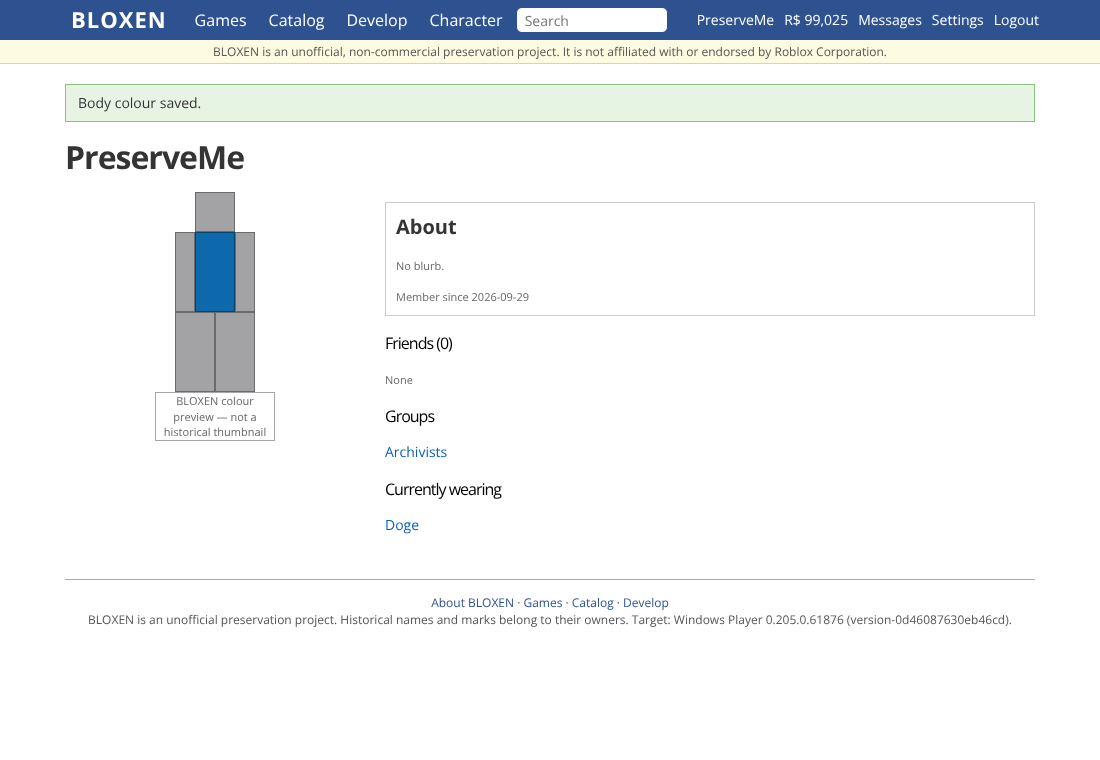
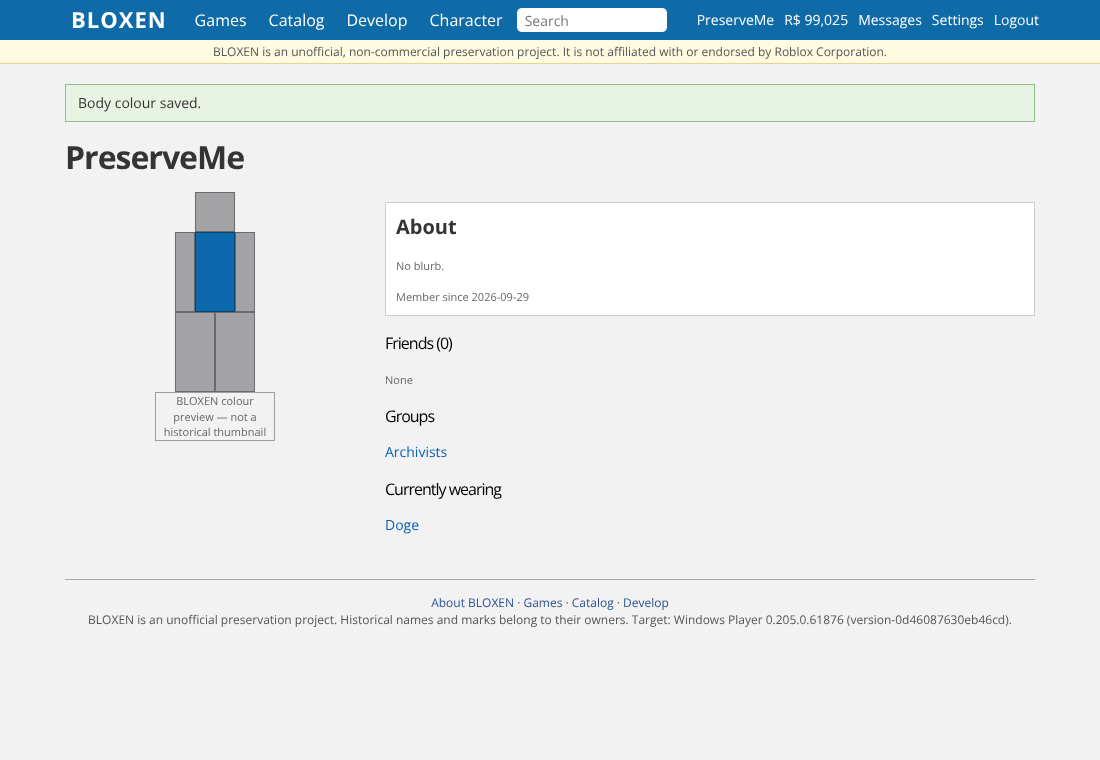
Website: logged-in Home + site chrome restyled from 2015-16 reference thumbnail (grey page, sampled blue header, Friends card, Recently Played row)

Changed region(s): [[0.0, 0.0, 1.0, 0.0605]]

diff --git a/static/css/bloxen.css b/static/css/bloxen.css
@@ -3,19 +3,19 @@
    button colours #007001 / #0852b7 / #565656, link #095fb5, text #343434, h1 32px / h2 30px) were read from the 2014-era Roblox Navigation2014.css /
    StyleGuide.css as mirrored in RobloxLabs/web (MIT). No Roblox image or sprite is bundled. The original July-2015 CSS was NOT recoverable (Wayback
    returns only rendered text through our tooling), so spacing and page composition are INFERRED. See research/WEBSITE.md. */
-html { height: 100%; background: #fff; }
-body { margin: 0; font-family: 'Source Sans Pro', Arial, Helvetica, sans-serif; color: #343434; font-size: 14px; line-height: 1.428; background: #fff; }
+html { height: 100%; background: #f2f2f2; }
+body { margin: 0; font-family: 'Source Sans Pro', Arial, Helvetica, sans-serif; color: #343434; font-size: 14px; line-height: 1.428; background: #f2f2f2; }
 a, a:visited { color: #095fb5; text-decoration: none; } a:hover { text-decoration: underline; }
 h1 { font-size: 32px; font-weight: bold; margin: 12px 0; letter-spacing: -1px; } h2 { font-size: 30px; letter-spacing: -1px; margin: 16px 0 10px; } h3 { font-size: 20px; margin: 12px 0 6px; } h2.light { font-size: 16px; font-weight: normal; color: #000; }
-.header-2014 { position: fixed; top: 0; left: 0; right: 0; height: 40px; background: #2D528F; color: #fff; z-index: 100; min-width: 960px; }
+.header-2014 { position: fixed; top: 0; left: 0; right: 0; height: 40px; background: #0e6ba7; color: #fff; z-index: 100; min-width: 960px; }
 .header-2014 a, .header-2014 a:visited { color: #fff; } .header-2014 .inner { width: 970px; margin: 0 auto; height: 40px; display: flex; align-items: center; }
 .header-2014 .logo { font-weight: bold; font-size: 22px; letter-spacing: 1px; margin-right: 14px; padding: 0 6px; }
-.header-2014 .links a { white-space: nowrap; font-size: 16px; margin-right: 6px; padding: 3px 10px 3px; border-radius: 4px; display: inline-block; } .header-2014 .links a:hover { background: #27487E; text-decoration: none; }
+.header-2014 .links a { white-space: nowrap; font-size: 16px; margin-right: 6px; padding: 3px 10px 3px; border-radius: 4px; display: inline-block; } .header-2014 .links a:hover { background: #0a5a8e; text-decoration: none; }
 .header-2014 form.search { margin: 0 10px 0 auto; } .header-2014 .search input { width: 220px; height: 24px; border: 0; border-radius: 5px; padding: 0 8px; font-size: 14px; box-sizing: border-box; }
 .header-2014 .acct { white-space: nowrap; font-size: 13px; flex-shrink: 0; font-size: 14px; } .header-2014 .acct span, .header-2014 .acct a, .header-2014 .acct button { margin-left: 10px; }
 .linkbtn { background: none; border: 0; color: #fff; font: inherit; cursor: pointer; padding: 0; } .linkbtn:hover { text-decoration: underline; }
 .notice { margin: 40px 0 0; background: #fffbe0; border-bottom: 1px solid #e0d98a; color: #555; font-size: 12px; text-align: center; padding: 3px 10px; }
-#Container { width: 970px; margin: 0 auto; background: #fff; padding: 10px 0 30px; min-height: 420px; }
+#Container { width: 970px; margin: 0 auto; background: transparent; padding: 10px 0 30px; min-height: 420px; }
 .flash { padding: 8px 12px; margin: 10px 0; border: 1px solid; } .flash.ok { background: #e7f4e4; border-color: #8cc084; } .flash.err { background: #fbe4e4; border-color: #d99; }
 .btn-large, .btn-medium, .btn-small { display: inline-block; text-align: center; font-weight: bold; border: 1px solid; cursor: pointer; text-decoration: none !important; color: #fff !important; font-family: inherit; }
 .btn-large { padding: 9px 20px 0; height: 39px; min-width: 70px; font-size: 23px; line-height: 27px; box-sizing: border-box; } .btn-medium { padding: 1px 13px 3px; height: 28px; min-width: 62px; font-size: 20px; line-height: 24px; box-sizing: border-box; } .btn-small { padding: 1px 7px; height: 20px; min-width: 40px; font-size: 14px; line-height: 18px; box-sizing: border-box; }
@@ -44,3 +44,12 @@ footer.site { width: 970px; margin: 0 auto; padding: 14px 0 40px; font-size: 12p
 .swrow form { display: inline; }
 /* fit 4 nav links + search + account area in 970px (found via screenshot: "Character" wrapped) */
 .header-2014 .links { display: flex; flex-shrink: 0; } .header-2014 .search input { width: 150px; } .header-2014 .links a { padding: 3px 8px; }
+
+/* 2015 logged-in chrome: header blue SAMPLED (#0e6ba7) from a blurry 185px reference thumbnail (uncertain +-10%); page grey #f2f2f2 sampled the same way. */
+.hello { display: flex; align-items: flex-end; margin: 14px 0 6px; } .hello-fig { width: 160px; } .hello-h { font-size: 44px; font-weight: 300; color: #555; letter-spacing: -1px; margin: 0 0 10px 30px; }
+.card { background: #fff; border: 1px solid #e3e3e3; padding: 10px 14px 12px; margin: 10px 0 18px; } .card-h, .sec-h { display: flex; justify-content: space-between; align-items: center; margin-bottom: 8px; color: #666; font-size: 18px; font-weight: 300; }
+.sec-h { font-size: 15px; letter-spacing: .3px; margin-top: 18px; } .btn-see { background: #3fb0ee; color: #fff !important; font-size: 12px; padding: 4px 16px; border-radius: 2px; text-decoration: none !important; }
+.frow { display: flex; gap: 10px; flex-wrap: wrap; } .ftile { width: 84px; text-align: center; color: #555 !important; font-size: 12px; } .fthumb { width: 84px; height: 84px; background: #f2f2f2; border: 1px solid #ddd; font-size: 9px; color: #888; display: flex; align-items: center; justify-content: center; }
+.fnm { overflow: hidden; text-overflow: ellipsis; white-space: nowrap; margin-top: 2px; }
+.grow { display: flex; gap: 10px; flex-wrap: wrap; } .gtile { width: 150px; background: #fff; border: 1px solid #e3e3e3; padding: 0 0 6px; } .gtile .thumb { width: 150px; height: 150px; box-sizing: border-box; background: #f2f2f2; display: flex; align-items: center; justify-content: center; text-align: center; font-size: 11px; color: #888; }
+.gtile .nm { padding: 4px 6px 0; font-weight: bold; white-space: nowrap; overflow: hidden; text-overflow: ellipsis; } .gtile .tip { padding: 0 6px; }

diff --git a/src/web/views.js b/src/web/views.js
@@ -62,13 +62,17 @@ function signupForm(c, tok) {
 <div class="lsu-row"><span class="lsu-l">Gender:</span><label><input type="radio" name="gender" value="m"> Boy</label> <label><input type="radio" name="gender" value="f"> Girl</label></div>
 <button class="lgreen lbig" type="submit">Sign Up</button></form><p class="lnotice">BLOXEN accounts are local. Use a NEW password &mdash; never your Roblox password.</p>`;
 }
+// Logged-in Home. REFERENCE: 185px-wide thumbnail "homepage from early 2015 to early 2016" (Roblox fandom wiki, quarantine copy) - grey page, blue header,
+// big light-weight "Hello, <name>!" with full-body avatar at left, white Friends card with avatar tiles + light-blue "See All", RECENTLY PLAYED row of square game tiles.
+// Too small to measure: proportions are estimates. Avatar/friend/game thumbnails are MISSING; the avatar is the labelled BLOXEN colour preview.
 function homeIn(c, d) {
-  const gameTile = g => `<div class="tile game"><a href="/games/${esc(g.id)}">${thumb('', g.title)}<div class="nm">${esc(g.title)}</div></a><div class="tip">by ${esc(g.creator || 'UNKNOWN')}</div></div>`;
-  return layout(c, 'Home', `<h1>Hello, ${esc(c.user.username)}!</h1><div class="two"><div class="side2">${figure(d.avatar.colors)}<p class="tc"><a href="/my/character">Customize Character</a></p></div><div class="main">
-<h2 class="light">Recently Played</h2>${d.recent.length ? `<div class="grid">${d.recent.map(gameTile).join('')}</div>` : '<p class="tip">You have not played anything yet.</p>'}
-<h2 class="light">Favorites</h2>${d.favs.length ? `<div class="grid">${d.favs.map(gameTile).join('')}</div>` : '<p class="tip">No favorite games yet.</p>'}
-<h2 class="light">Friends (${d.friends.length})</h2>${d.friends.map(f => `<a href="/users/${f.id}/profile">${esc(f.username)}</a>`).join(', ') || '<span class="tip">No friends yet. <a href="/my/friends">Find some</a>.</span>'}
-<p>${d.unread ? `<a href="/my/messages"><b>${d.unread} unread message${d.unread > 1 ? 's' : ''}</b></a>` : ''}</p></div></div>`);
+  const gameTile = g => `<div class="gtile"><a href="/games/${esc(g.id)}">${thumb('', g.title)}<div class="nm" title="${esc(g.title)}">${esc(g.title)}</div></a><div class="tip">by ${esc(g.creator || 'UNKNOWN')}</div></div>`;
+  const friendTile = f => `<a class="ftile" href="/users/${f.id}/profile"><div class="fthumb">(thumbnail MISSING)</div><div class="fnm">${esc(f.username)}</div></a>`;
+  return layout(c, 'Home', `<div class="hello"><div class="hello-fig">${figure(d.avatar.colors)}</div><h1 class="hello-h">Hello, ${esc(c.user.username)}!</h1></div>
+<div class="card"><div class="card-h"><span>Friends (${d.friends.length})</span><a class="btn-see" href="/my/friends">See All</a></div><div class="frow">${d.friends.map(friendTile).join('') || '<span class="tip">No friends yet. <a href="/my/friends">Find some</a>.</span>'}</div></div>
+<div class="sec-h"><span>RECENTLY PLAYED</span><a class="btn-see" href="/games">See All</a></div>${d.recent.length ? `<div class="grow">${d.recent.map(gameTile).join('')}</div>` : '<p class="tip">You have not played anything yet.</p>'}
+<div class="sec-h"><span>MY FAVORITES</span><a class="btn-see" href="/games">See All</a></div>${d.favs.length ? `<div class="grow">${d.favs.map(gameTile).join('')}</div>` : '<p class="tip">No favorite games yet.</p>'}
+<p>${d.unread ? `<a href="/my/messages"><b>${d.unread} unread message${d.unread > 1 ? 's' : ''}</b></a>` : ''}</p><p class="tip"><a href="/my/character">Customize Character</a></p>`);
 }
 const SORTS = ['Default', 'Popular', 'Top Earning', 'Top Rated', 'Recommended', 'Top Favorite', 'Top Paid', "Builders Club"];
 function games(c, list) {

diff --git a/research/WEBSITE.md b/research/WEBSITE.md
@@ -35,6 +35,8 @@ Measured/compared: band order, nav items and their placement, panel position (ri
 
 Deliberate deviations (honesty/safety, recorded): BLOXEN text wordmark instead of the logo; the preservation notice banner; password rule is BLOXEN's (8+ characters, not the 2015 "4 letters and 2 numbers"); gender shown as labelled radios instead of icons; footer links point at BLOXEN pages.
 
+**Logged-in Home** was restyled the same way from the Fandom "Roblox Home" gallery thumbnail for the 2015–early-2016 homepage (185×99 px, upscaled for inspection): blue header (sampled ≈ #0e6ba7, ±10% because the thumbnail is blurry), light-grey page (#f2f2f2) instead of white, large light-weight "Hello, <name>!" beside the full-body avatar, a white Friends card of avatar tiles with a light-blue "See All" button, then a RECENTLY PLAYED row of square game tiles. The header colour and grey page background were applied site-wide (previously the 2014 #2D528F on white). Two other candidate 2015 screenshots found by image search turned out to be 2016–2017-era (left-sidebar layout) or modern and were NOT used. A narrow left sidebar visible in the thumbnail is empty/collapsed and is not reproduced.
+
 Still NOT reference-checked (structure INFERRED from period memory and 2012–14 CSS): Games, Game Details, Catalog, Catalog Item, Profile, Character, Inventory, Friends, Groups, Messages, Develop, Search, Account Settings, and the logged-in Home beyond the 185 px thumbnail. These use the older-style 970px chrome and are the next targets if more 2015 screenshots can be found. Status: PARTIAL.
 
 Defects found and fixed by screenshot inspection along the way: (a) CSP silently blocked inline `style=` so the avatar figure/swatches were blank → CSS classes + test; (b) logged-in header wrapped "Character" → resized; (c) logged-out Home structurally wrong (above).
